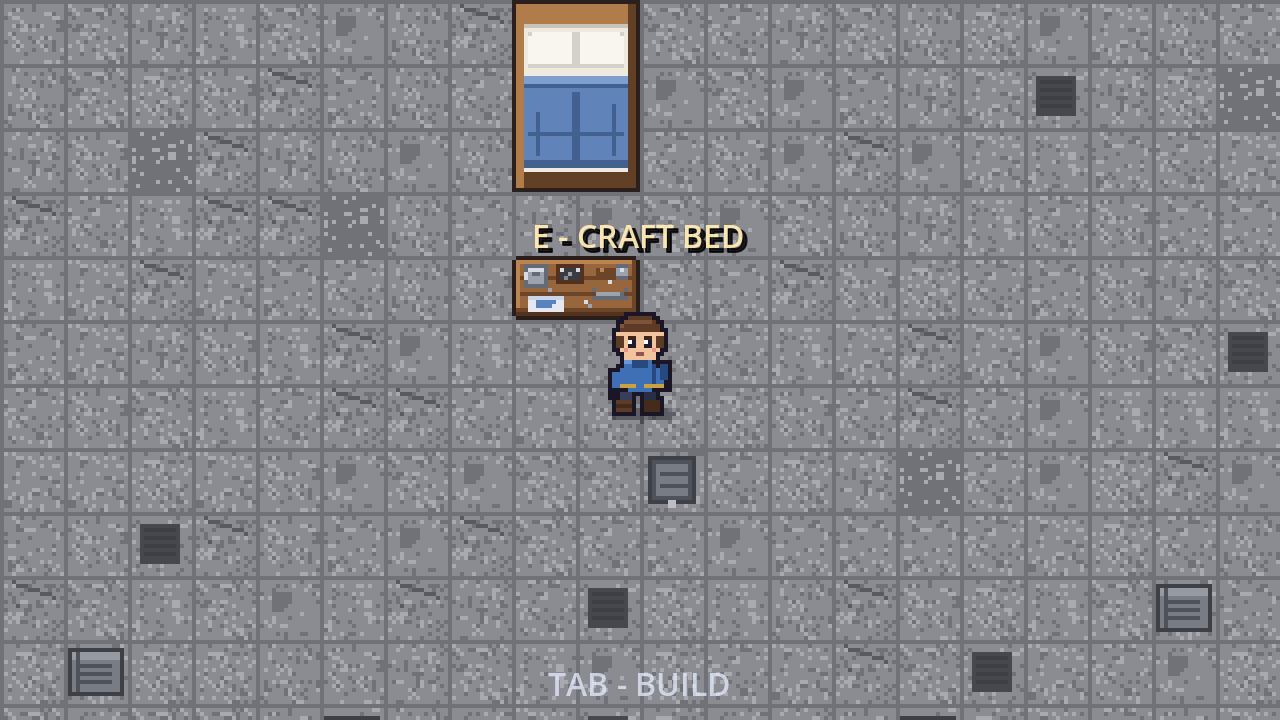
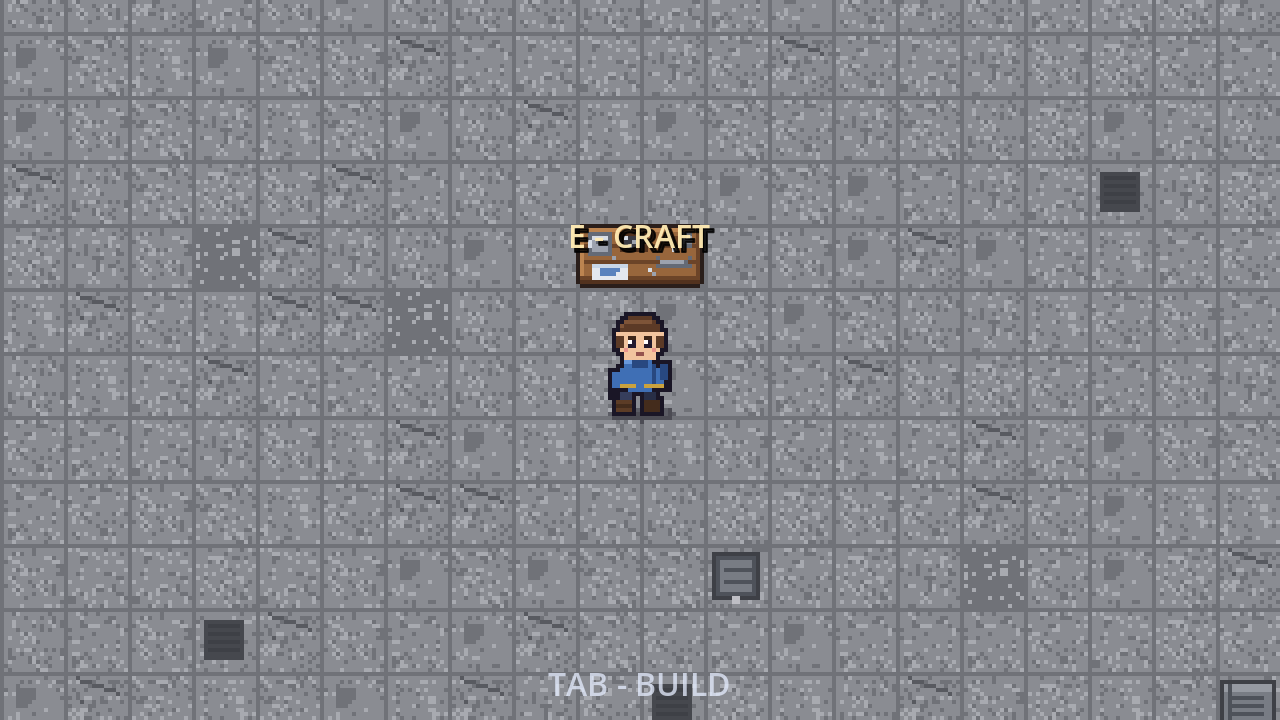
chore: 工作台提示改成 E - CRAFT（不写具体造什么）

diff --git a/README.md b/README.md
@@ -605,7 +605,7 @@ after 3.5s-> 0 只（确认不再刷）
   **从草地按 E 回基地时，玩家会直接出现在楼梯上**（`scripts/game_state.gd` 这个 autoload 传状态）；
   那 3×5 格不能摆家具
   （`base_builder.gd` 的 `blocked_cells`）。
-- **工作台（造东西）**：站到工作台旁边会提示 `E - CRAFT BED`，按 **E** 就往仓库里加一张床
+- **工作台（造东西）**：站到工作台旁边会提示 `E - CRAFT`，按 **E** 就往仓库里加一张床
   （`base_scene.gd` 的 `_bench_near_player()` + `base_builder.add_stock()`）。
   这样仓库里只剩 1 张床时，可以靠工作台继续造。
 - **消防栓（草地）**：`scenes/hydrant.tscn`，摆在草地 `(232, 104)`。被子弹打中（在武器的射程/扇形内）
